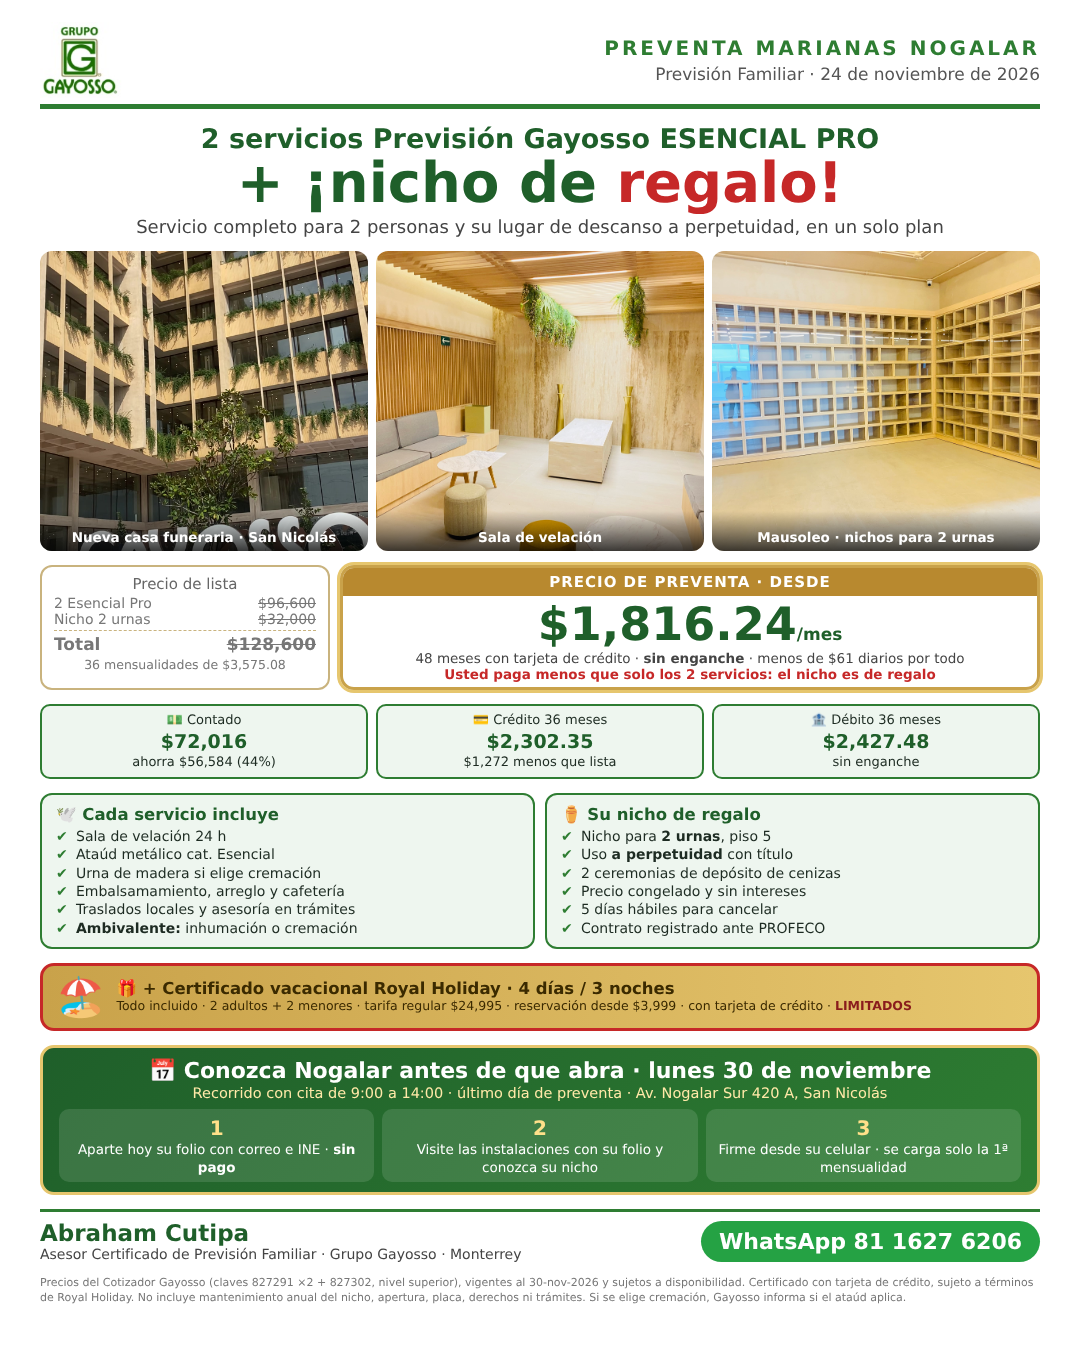
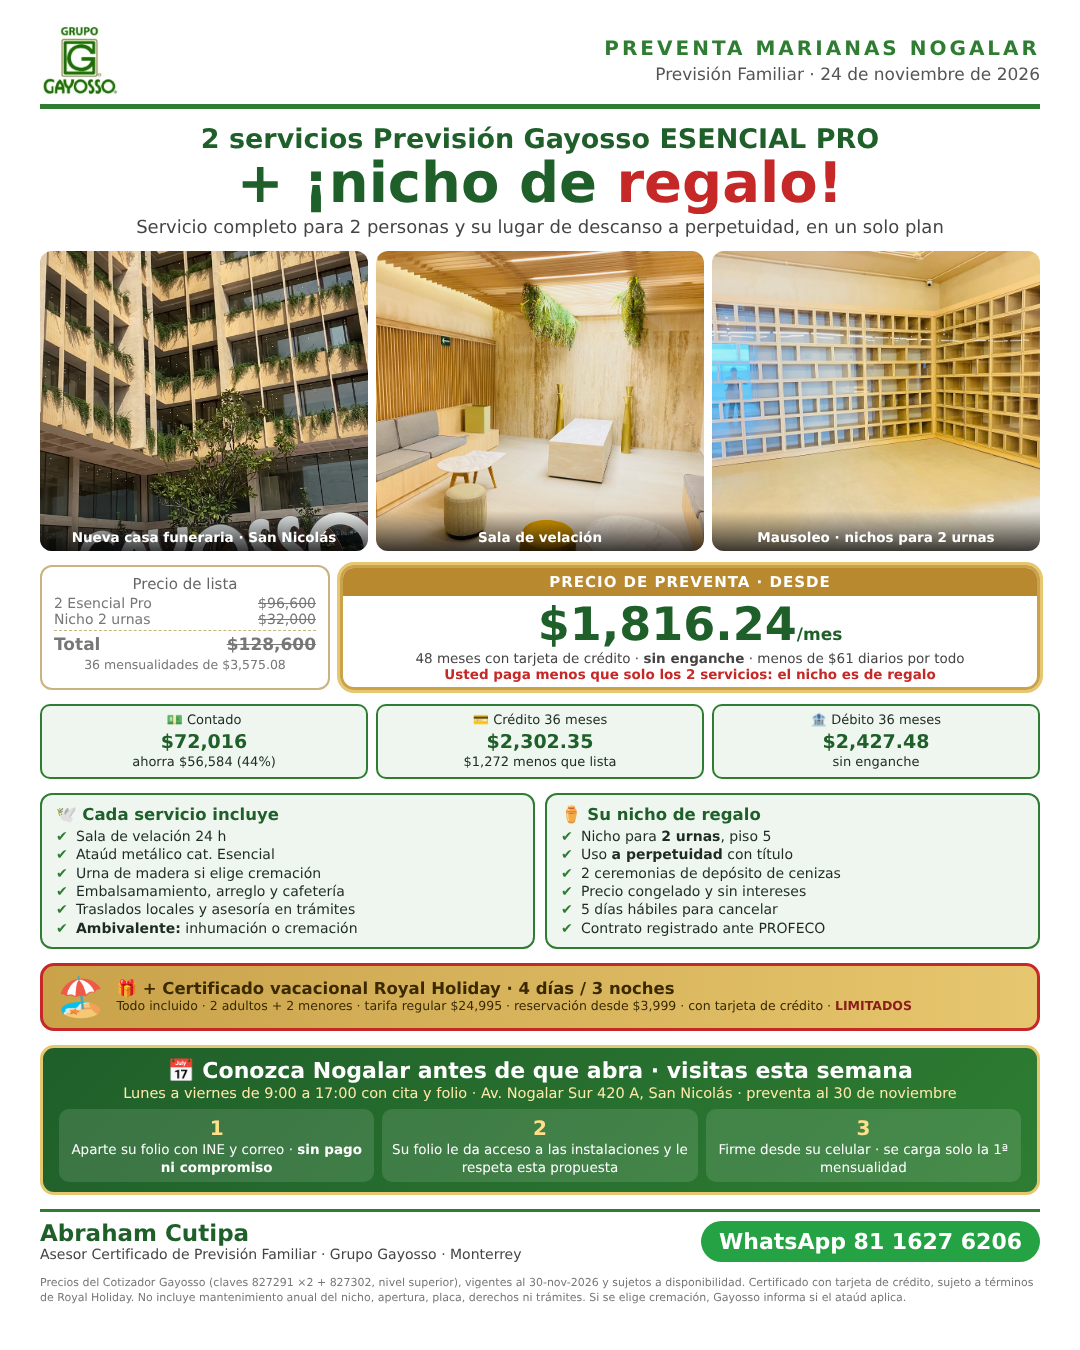
Nogalar: visitas L-V 9 a 17 con folio en imagen y memoria
Claude-Session: https://claude.ai/code/session_01PccRGVGwaaPKDitcWkgoNs

Changed region(s): [[0.0611, 0.7778, 0.8556, 0.8711]]

diff --git a/propuesta/esencial2_nicho_cita_nogalar.html b/propuesta/esencial2_nicho_cita_nogalar.html
@@ -104,8 +104,8 @@ body{width:1080px;height:1350px;font-family:"DejaVu Sans",Arial,sans-serif;backg
   <li>Nicho para <b>2 urnas</b>, piso 5</li><li>Uso <b>a perpetuidad</b> con título</li><li>2 ceremonias de depósito de cenizas</li><li>Precio congelado y sin intereses</li><li>5 días hábiles para cancelar</li><li>Contrato registrado ante PROFECO</li></ul></div>
 </div>
 <div class="gift"><div class="i">🏖</div><div><div class="t">🎁 + Certificado vacacional Royal Holiday · 4 días / 3 noches</div><div class="s">Todo incluido · 2 adultos + 2 menores · tarifa regular $24,995 · reservación desde $3,999 · con tarjeta de crédito · <b style="color:#8a1c1c">LIMITADOS</b></div></div></div>
-<div class="cita"><div class="t">📅 Conozca Nogalar antes de que abra · lunes 30 de noviembre</div><div class="s">Recorrido con cita de 9:00 a 14:00 · último día de preventa · Av. Nogalar Sur 420 A, San Nicolás</div>
- <div class="stp"><div><b class="n">1</b>Aparte hoy su folio con correo e INE · <b>sin pago</b></div><div><b class="n">2</b>Visite las instalaciones con su folio y conozca su nicho</div><div><b class="n">3</b>Firme desde su celular · se carga solo la 1ª mensualidad</div></div></div>
+<div class="cita"><div class="t">📅 Conozca Nogalar antes de que abra · visitas esta semana</div><div class="s">Lunes a viernes de 9:00 a 17:00 con cita y folio · Av. Nogalar Sur 420 A, San Nicolás · preventa al 30 de noviembre</div>
+ <div class="stp"><div><b class="n">1</b>Aparte su folio con INE y correo · <b>sin pago ni compromiso</b></div><div><b class="n">2</b>Su folio le da acceso a las instalaciones y le respeta esta propuesta</div><div><b class="n">3</b>Firme desde su celular · se carga solo la 1ª mensualidad</div></div></div>
 <div class="foot"><div><div class="n">Abraham Cutipa</div><div class="r">Asesor Certificado de Previsión Familiar · Grupo Gayosso · Monterrey</div></div><div class="w">WhatsApp 81 1627 6206</div></div>
 <div class="fine">Precios del Cotizador Gayosso (claves 827291 ×2 + 827302, nivel superior), vigentes al 30-nov-2026 y sujetos a disponibilidad. Certificado con tarjeta de crédito, sujeto a términos de Royal Holiday. No incluye mantenimiento anual del nicho, apertura, placa, derechos ni trámites. Si se elige cremación, Gayosso informa si el ataúd aplica.</div>
 </div></body></html>

diff --git a/CLAUDE.md b/CLAUDE.md
@@ -349,7 +349,7 @@ Ataúdes y urnas por categoría (láminas oficiales Monterrey): Esencial: inhuma
 ## Direcciones Gayosso Monterrey y cobertura nacional (usar en propuestas cuando se requiera)
 
 - *Capillas Marianas* (agencia GCM8, Agencia A): Av. Lázaro Cárdenas No. 1005 Pte., Col. Loma Larga, San Pedro Garza García, N.L. (la presentación oficial de Gayosso usa C.P. 64710; antes teníamos 66220: usar 64710).
-- *Capillas Marianas Nogalar* ("Marianas Nogalar", nueva casa funeraria, APERTURA DICIEMBRE 2026; ya se puede visitar con el asesor). Dirección OFICIAL (presentación Gayosso 2026-11-06): *Av. Nogalar Sur 420 A, San Nicolás de los Garza, C.P. 66484, N.L.* UBICACIÓN EXACTA (pin del usuario 2026-11-11): 25°43'04.5"N 100°17'11.7"W = 25.7179279, -100.2865906; liga para clientes: https://www.google.com/maps?q=25.7179279,-100.2865906 (usar SIEMPRE esta en vez de búsquedas por dirección). Referencias: a un lado AutoZone, enfrente Banco BanRegio; sobre Av. Nogalar Sur entre Privada San Francisco y Futuro Nogalar, ~300 m de la gasolinera Mobil (esq. Av. Diego Díaz de Berlanga). Imagen de ubicación con QR: propuesta/ubicacion_nogalar.html. VISITAS BAJO CITA PROGRAMADA: SOLO LUNES de 9:00 a 14:00 (regla del usuario 2026-11-12; reemplaza el horario L–V 9–17 / sáb 9–14 del 2026-11-11 en todas las notas, textos e imágenes). (antes usábamos "#440, entre Futuro Nogalar y Privada San Francisco": corregir a 420 A). Argumento en visitas: conocer las dos instalaciones (Capillas Marianas y la nueva Nogalar).
+- *Capillas Marianas Nogalar* ("Marianas Nogalar", nueva casa funeraria, APERTURA DICIEMBRE 2026; ya se puede visitar con el asesor). Dirección OFICIAL (presentación Gayosso 2026-11-06): *Av. Nogalar Sur 420 A, San Nicolás de los Garza, C.P. 66484, N.L.* UBICACIÓN EXACTA (pin del usuario 2026-11-11): 25°43'04.5"N 100°17'11.7"W = 25.7179279, -100.2865906; liga para clientes: https://www.google.com/maps?q=25.7179279,-100.2865906 (usar SIEMPRE esta en vez de búsquedas por dirección). Referencias: a un lado AutoZone, enfrente Banco BanRegio; sobre Av. Nogalar Sur entre Privada San Francisco y Futuro Nogalar, ~300 m de la gasolinera Mobil (esq. Av. Diego Díaz de Berlanga). Imagen de ubicación con QR: propuesta/ubicacion_nogalar.html. VISITAS BAJO CITA PROGRAMADA: SOLO LUNES de 9:00 a 14:00 (regla del usuario 2026-11-12; reemplaza el horario L–V 9–17 / sáb 9–14 del 2026-11-11 en todas las notas, textos e imágenes). ACTUALIZACIÓN 2026-11-24 (semana 24–28 nov): citas NORMALES de LUNES A VIERNES de 9:00 a 17:00, con FOLIO APARTADO como requisito (alta con INE y correo electrónico); el folio respeta la propuesta y da permiso de acceso a las instalaciones sin compromiso. Confirmar con el usuario el horario de semanas siguientes. (antes usábamos "#440, entre Futuro Nogalar y Privada San Francisco": corregir a 420 A). Argumento en visitas: conocer las dos instalaciones (Capillas Marianas y la nueva Nogalar).
 - *Cementerio Jardines del Descanso* (oficina CJ04): Calle de la Meza No. 7650, Col. La Estanzuela, C.P. 64988, Monterrey, N.L. Tel. (81) 8317 8505, abierto todos los días de 5:00 a 18:00.
 - *Oficinas administrativas*: Aramberri No. 1115 Ote., esq. Diego de Montemayor, Col. Centro, Monterrey, N.L. Tel. (81) 8173 5469. L–V 9:00–13:00 y 15:00–18:00; sábados 9:00–13:00.
 - *Oficinas telemarketing*: Hidalgo #1911, Col. Obispado, entre Verlaine y Baudelaire.
@@ -602,3 +602,4 @@ Sistema de trabajo y "Mi Fórmula Personal de Éxito" (llenar el 1° de cada mes
 - 2026-11-23 (19:08 Monterrey, revisión diaria programada): "Nicho de regalo Nogalar (fin 30 nov)" `120257719638220768` ACTIVO: 21-nov $417.50 / 14 conv ($29.82); 22-nov $313.77 / 12 ($26.15, CTR 3.98%); 23-nov $368.31 / 17 ($21.67, CTR 4.15%, frecuencia diaria 1.25). Acumulado 21–23 nov $1,099.58 / 43 conv ($25.57), alcance 10,176, frecuencia 1.51, CTR 4.23%. Costo bajando día a día pero sigue > $20 (criterio de corte cumplido desde el 22); frecuencia sana. Sigue pendiente la respuesta del usuario sobre reactivar la FRÍA con "Fin de Año"; sin cambios en Meta.
 - 2026-11-23: IMAGEN NICHO 2 URNAS NOGALAR SUPERIOR vs MEDIO (propuesta/nicho2urnas_sup_med_nogalar.html/png), solo cifras CONFIRMADAS del 11-nov: superior 827302 lista $32,000 → contado $25,600 / 36 × $818.43 (lista $889.60); medio 827303 lista $43,205 → contado $34,564 / 36 × $1,105.01 (lista $1,201.10). Medio = +$287/mes o +$8,964 contado. Certificado con TDC. Sin 24 meses (derivado).
 - 2026-11-24: IMAGEN PARA LEADS "2 Esencial Pro + ¡nicho de regalo!" NOGALAR CON CIERRE A CITA (propuesta/esencial2_nicho_cita_nogalar.html/png): 3 fotos reales (fachada, sala de velación, nichos), lista $128,600 → desde $1,816.24 (TDC 48) · contado $72,016 · TDC 36 $2,302.35 · débito 36 $2,427.48; incluye servicio/nicho, certificado (TDC) y banda "Conozca Nogalar antes de que abra · lunes 30 de noviembre 9:00–14:00 (último día de preventa)" con 3 pasos: folio hoy (correo + INE, sin pago) → visita con folio → firma. Estrategia del usuario: cerrar desde el primer mensaje y llevar a cita con folio en Nogalar.
+- 2026-11-24: esencial2_nicho_cita_nogalar actualizada con horario de visitas L–V 9:00–17:00 con cita y folio (INE + correo, sin pago ni compromiso; el folio respeta la propuesta y da acceso a las instalaciones).
